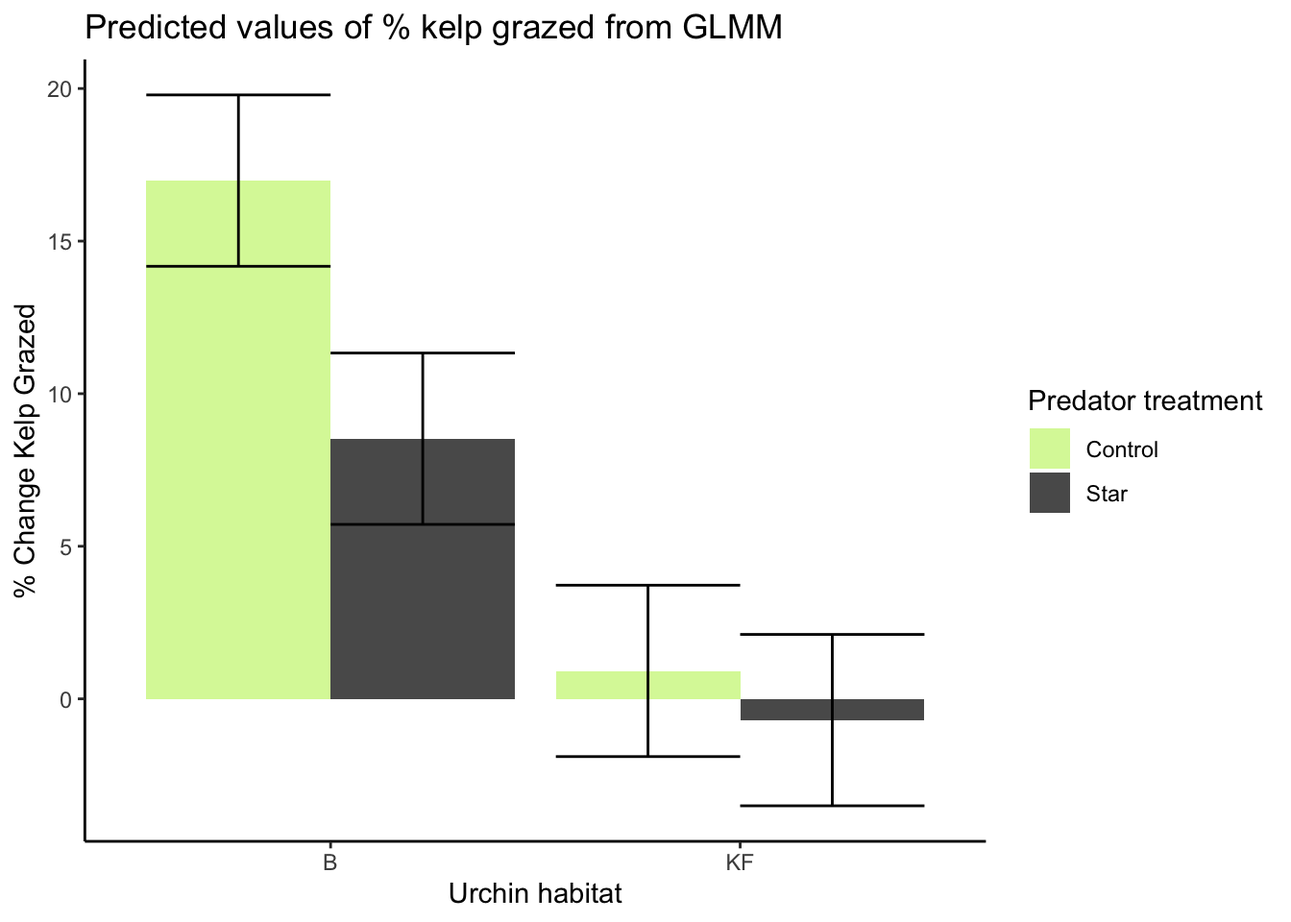
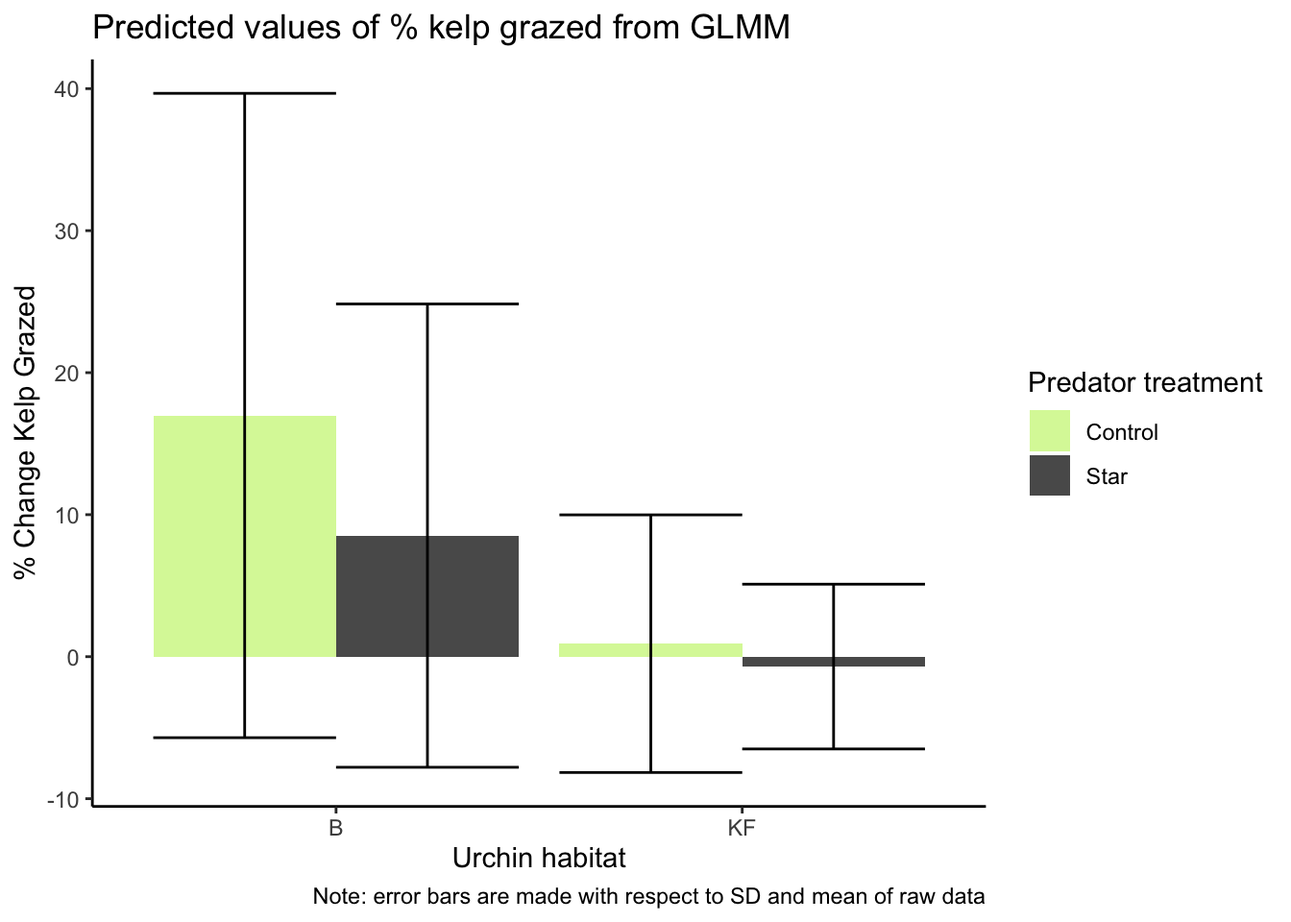
render

diff --git a/docs/PycnoPie_report.html b/docs/PycnoPie_report.html
@@ -6,7 +6,7 @@
 
 <meta name="viewport" content="width=device-width, initial-scale=1.0, user-scalable=yes">
 
-<meta name="dcterms.date" content="2025-01-27">
+<meta name="dcterms.date" content="2025-02-04">
 
 <title>PycnoPie</title>
 <style>
@@ -91,7 +91,7 @@ pre > code.sourceCode > span > a:first-child::before { text-decoration: underlin
     <div>
     <div class="quarto-title-meta-heading">Published</div>
     <div class="quarto-title-meta-contents">
-      <p class="date">January 27, 2025</p>
+      <p class="date">February 4, 2025</p>
     </div>
   </div>
   
@@ -117,12 +117,43 @@ pre > code.sourceCode > span > a:first-child::before { text-decoration: underlin
 <span id="cb1-5"><a href="#cb1-5" aria-hidden="true" tabindex="-1"></a>  <span class="fu">scale_fill_manual</span>(<span class="at">values =</span> <span class="fu">c</span>(<span class="st">'#5A5A5A'</span>,<span class="st">'#DAF7A6'</span>) ) <span class="sc">+</span></span>
 <span id="cb1-6"><a href="#cb1-6" aria-hidden="true" tabindex="-1"></a>  <span class="fu">ylab</span>(<span class="st">"% Change Kelp Grazed"</span>) <span class="sc">+</span></span>
 <span id="cb1-7"><a href="#cb1-7" aria-hidden="true" tabindex="-1"></a>  <span class="fu">xlab</span>(<span class="st">"Urchin habitat "</span>) <span class="sc">+</span></span>
-<span id="cb1-8"><a href="#cb1-8" aria-hidden="true" tabindex="-1"></a>  <span class="fu">labs</span>(<span class="at">fill =</span> <span class="st">"Predator treatment"</span>)</span></code><button title="Copy to Clipboard" class="code-copy-button"><i class="bi"></i></button></pre></div>
+<span id="cb1-8"><a href="#cb1-8" aria-hidden="true" tabindex="-1"></a>  <span class="fu">labs</span>(<span class="at">fill =</span> <span class="st">"Predator treatment"</span>)</span>
+<span id="cb1-9"><a href="#cb1-9" aria-hidden="true" tabindex="-1"></a><span class="co">#calculating SD by group for raw data for error bars</span></span>
+<span id="cb1-10"><a href="#cb1-10" aria-hidden="true" tabindex="-1"></a>kelp_processed_sd <span class="ot">&lt;-</span> kelp_processed <span class="sc">%&gt;%</span></span>
+<span id="cb1-11"><a href="#cb1-11" aria-hidden="true" tabindex="-1"></a>  <span class="fu">group_by</span>(Urch_habitat_treatment, Pred_treatment) <span class="sc">%&gt;%</span></span>
+<span id="cb1-12"><a href="#cb1-12" aria-hidden="true" tabindex="-1"></a>  <span class="fu">mutate</span>(<span class="at">raw_sd =</span> <span class="fu">sd</span>(pcnt_grazed),</span>
+<span id="cb1-13"><a href="#cb1-13" aria-hidden="true" tabindex="-1"></a>         <span class="at">raw_mean =</span> <span class="fu">mean</span>(pcnt_grazed)) <span class="sc">%&gt;%</span></span>
+<span id="cb1-14"><a href="#cb1-14" aria-hidden="true" tabindex="-1"></a>  <span class="fu">ungroup</span>() <span class="sc">%&gt;%</span></span>
+<span id="cb1-15"><a href="#cb1-15" aria-hidden="true" tabindex="-1"></a>  <span class="fu">mutate</span>(<span class="fu">across</span>(<span class="fu">c</span>(Urch_habitat_treatment, Pred_treatment), as.factor)) <span class="sc">%&gt;%</span></span>
+<span id="cb1-16"><a href="#cb1-16" aria-hidden="true" tabindex="-1"></a>  <span class="fu">unique</span>()</span>
+<span id="cb1-17"><a href="#cb1-17" aria-hidden="true" tabindex="-1"></a></span>
+<span id="cb1-18"><a href="#cb1-18" aria-hidden="true" tabindex="-1"></a><span class="co">#bar chart (made this bc it is same as model code but for raw data - wanted to see if plots look different or not)</span></span>
+<span id="cb1-19"><a href="#cb1-19" aria-hidden="true" tabindex="-1"></a><span class="fu">ggplot</span>(kelp_processed_sd, </span>
+<span id="cb1-20"><a href="#cb1-20" aria-hidden="true" tabindex="-1"></a>       <span class="fu">aes</span>(<span class="at">x =</span> Urch_habitat_treatment, <span class="at">y =</span> raw_mean, <span class="at">fill =</span> Pred_treatment)) <span class="sc">+</span> <span class="co">#used raw_mean bc pre-calculated and looks like model graph.</span></span>
+<span id="cb1-21"><a href="#cb1-21" aria-hidden="true" tabindex="-1"></a>  </span>
+<span id="cb1-22"><a href="#cb1-22" aria-hidden="true" tabindex="-1"></a>  <span class="fu">geom_bar</span>(<span class="at">stat =</span> <span class="st">"identity"</span>, </span>
+<span id="cb1-23"><a href="#cb1-23" aria-hidden="true" tabindex="-1"></a>           <span class="at">position =</span> <span class="fu">position_dodge</span>()) <span class="sc">+</span></span>
+<span id="cb1-24"><a href="#cb1-24" aria-hidden="true" tabindex="-1"></a>  </span>
+<span id="cb1-25"><a href="#cb1-25" aria-hidden="true" tabindex="-1"></a>  <span class="fu">geom_errorbar</span>(<span class="at">data =</span> kelp_processed_sd,</span>
+<span id="cb1-26"><a href="#cb1-26" aria-hidden="true" tabindex="-1"></a>    <span class="fu">aes</span>(<span class="at">ymin =</span> raw_mean<span class="sc">-</span>raw_sd, <span class="at">ymax =</span>raw_mean<span class="sc">+</span>raw_sd), </span>
+<span id="cb1-27"><a href="#cb1-27" aria-hidden="true" tabindex="-1"></a>                <span class="at">position=</span><span class="fu">position_dodge</span>()) <span class="sc">+</span></span>
+<span id="cb1-28"><a href="#cb1-28" aria-hidden="true" tabindex="-1"></a> </span>
+<span id="cb1-29"><a href="#cb1-29" aria-hidden="true" tabindex="-1"></a>   <span class="fu">labs</span>(<span class="at">title =</span> <span class="st">"Predicted values of % kelp grazed from raw data"</span>, </span>
+<span id="cb1-30"><a href="#cb1-30" aria-hidden="true" tabindex="-1"></a>        <span class="at">x =</span> <span class="st">"Urchin habitat"</span>, <span class="at">y =</span> <span class="st">"% kelp grazed"</span>, </span>
+<span id="cb1-31"><a href="#cb1-31" aria-hidden="true" tabindex="-1"></a>        <span class="at">fill =</span> <span class="st">"Pred treatment"</span>) <span class="sc">+</span></span>
+<span id="cb1-32"><a href="#cb1-32" aria-hidden="true" tabindex="-1"></a> </span>
+<span id="cb1-33"><a href="#cb1-33" aria-hidden="true" tabindex="-1"></a>  <span class="fu">theme_classic</span>() <span class="sc">+</span></span>
+<span id="cb1-34"><a href="#cb1-34" aria-hidden="true" tabindex="-1"></a>  <span class="fu">scale_fill_manual</span>(<span class="at">values =</span> <span class="fu">c</span>(<span class="st">'#DAF7A6'</span>,<span class="st">'#5A5A5A'</span>) ) <span class="sc">+</span></span>
+<span id="cb1-35"><a href="#cb1-35" aria-hidden="true" tabindex="-1"></a>  <span class="fu">ylab</span>(<span class="st">"% Change Kelp Grazed"</span>) <span class="sc">+</span></span>
+<span id="cb1-36"><a href="#cb1-36" aria-hidden="true" tabindex="-1"></a>  <span class="fu">labs</span>(<span class="at">fill =</span> <span class="st">"Predator treatment"</span>)</span></code><button title="Copy to Clipboard" class="code-copy-button"><i class="bi"></i></button></pre></div>
 </details>
 <div class="cell quarto-layout-panel" data-layout-ncol="2">
 <div class="quarto-layout-row">
 <div class="quarto-layout-cell" style="flex-basis: 50.0%;justify-content: center;">
 <p><img src="PycnoPie_report_files/figure-html/raw-kelp-1.png" class="img-fluid" width="672"></p>
+</div>
+<div class="quarto-layout-cell" style="flex-basis: 50.0%;justify-content: center;">
+<p><img src="PycnoPie_report_files/figure-html/raw-kelp-2.png" class="img-fluid" width="672"></p>
 </div>
 </div>
 </div>
@@ -131,42 +162,79 @@ pre > code.sourceCode > span > a:first-child::before { text-decoration: underlin
 <h4 class="anchored" data-anchor-id="model-data-general-linear-mixed-model-for-change-in-kelp-grazed-by-urchins"><strong>Model data:</strong> General linear mixed model for % change in kelp grazed by urchins</h4>
 <details class="code-fold">
 <summary>Code</summary>
-<div class="sourceCode cell-code" id="cb2"><pre class="sourceCode r code-with-copy"><code class="sourceCode r"><span id="cb2-1"><a href="#cb2-1" aria-hidden="true" tabindex="-1"></a><span class="co">#building model</span></span>
-<span id="cb2-2"><a href="#cb2-2" aria-hidden="true" tabindex="-1"></a>kelp_mod <span class="ot">&lt;-</span> glmmTMB<span class="sc">::</span><span class="fu">glmmTMB</span>(pcnt_grazed <span class="sc">~</span> </span>
-<span id="cb2-3"><a href="#cb2-3" aria-hidden="true" tabindex="-1"></a>                         </span>
-<span id="cb2-4"><a href="#cb2-4" aria-hidden="true" tabindex="-1"></a>                         Urch_habitat_treatment <span class="sc">+</span> </span>
-<span id="cb2-5"><a href="#cb2-5" aria-hidden="true" tabindex="-1"></a>                         Pred_treatment <span class="sc">+</span> </span>
-<span id="cb2-6"><a href="#cb2-6" aria-hidden="true" tabindex="-1"></a>                         Urch_habitat_treatment<span class="sc">*</span>Pred_treatment <span class="sc">+</span></span>
+<div class="sourceCode cell-code" id="cb2"><pre class="sourceCode r code-with-copy"><code class="sourceCode r"><span id="cb2-1"><a href="#cb2-1" aria-hidden="true" tabindex="-1"></a><span class="co">#converting to factor</span></span>
+<span id="cb2-2"><a href="#cb2-2" aria-hidden="true" tabindex="-1"></a>kelp_processed <span class="ot">&lt;-</span> kelp_processed <span class="sc">%&gt;%</span> </span>
+<span id="cb2-3"><a href="#cb2-3" aria-hidden="true" tabindex="-1"></a>  <span class="fu">mutate</span>(<span class="fu">across</span>(<span class="fu">c</span>(Pred_treatment, Urch_habitat_treatment), as.factor))</span>
+<span id="cb2-4"><a href="#cb2-4" aria-hidden="true" tabindex="-1"></a></span>
+<span id="cb2-5"><a href="#cb2-5" aria-hidden="true" tabindex="-1"></a><span class="co">#building model</span></span>
+<span id="cb2-6"><a href="#cb2-6" aria-hidden="true" tabindex="-1"></a>kelp_mod <span class="ot">&lt;-</span> glmmTMB<span class="sc">::</span><span class="fu">glmmTMB</span>(pcnt_grazed <span class="sc">~</span> </span>
 <span id="cb2-7"><a href="#cb2-7" aria-hidden="true" tabindex="-1"></a>                         </span>
-<span id="cb2-8"><a href="#cb2-8" aria-hidden="true" tabindex="-1"></a>                         (<span class="dv">1</span><span class="sc">|</span> Trial<span class="sc">/</span>Tank<span class="sc">/</span>Kelp_ID),  </span>
-<span id="cb2-9"><a href="#cb2-9" aria-hidden="true" tabindex="-1"></a>                       </span>
-<span id="cb2-10"><a href="#cb2-10" aria-hidden="true" tabindex="-1"></a>                       <span class="at">data =</span> kelp_processed,</span>
-<span id="cb2-11"><a href="#cb2-11" aria-hidden="true" tabindex="-1"></a>                       </span>
-<span id="cb2-12"><a href="#cb2-12" aria-hidden="true" tabindex="-1"></a>                       <span class="at">family =</span> <span class="fu">gaussian</span>(<span class="at">link =</span> <span class="st">"identity"</span>))</span>
-<span id="cb2-13"><a href="#cb2-13" aria-hidden="true" tabindex="-1"></a></span>
-<span id="cb2-14"><a href="#cb2-14" aria-hidden="true" tabindex="-1"></a>sjPlot<span class="sc">::</span><span class="fu">tab_model</span>(kelp_mod)</span>
-<span id="cb2-15"><a href="#cb2-15" aria-hidden="true" tabindex="-1"></a>predicted_kelp_mod <span class="ot">&lt;-</span> <span class="fu">ggpredict</span>(<span class="at">model =</span> kelp_mod, <span class="at">terms =</span> <span class="fu">c</span>(<span class="st">"Pred_treatment"</span>,<span class="st">"Urch_habitat_treatment"</span>))</span>
-<span id="cb2-16"><a href="#cb2-16" aria-hidden="true" tabindex="-1"></a></span>
-<span id="cb2-17"><a href="#cb2-17" aria-hidden="true" tabindex="-1"></a><span class="co">#bar chart of estimates</span></span>
-<span id="cb2-18"><a href="#cb2-18" aria-hidden="true" tabindex="-1"></a><span class="fu">ggplot</span>(predicted_kelp_mod, <span class="fu">aes</span>(group, predicted, <span class="at">fill =</span> x)) <span class="sc">+</span></span>
-<span id="cb2-19"><a href="#cb2-19" aria-hidden="true" tabindex="-1"></a>  <span class="fu">geom_bar</span>(<span class="at">stat =</span> <span class="st">"identity"</span>, <span class="at">position =</span> <span class="fu">position_dodge</span>()) <span class="sc">+</span></span>
-<span id="cb2-20"><a href="#cb2-20" aria-hidden="true" tabindex="-1"></a>  <span class="fu">geom_errorbar</span>(<span class="fu">aes</span>(<span class="at">ymin =</span> conf.low, <span class="at">ymax =</span> conf.high), <span class="at">position=</span><span class="fu">position_dodge</span>()) <span class="sc">+</span></span>
-<span id="cb2-21"><a href="#cb2-21" aria-hidden="true" tabindex="-1"></a>  <span class="fu">labs</span>(<span class="at">title =</span> <span class="st">"Predicted values of % kelp grazed from GLMM"</span>, <span class="at">x =</span> <span class="st">"Urchin habitat"</span>, <span class="at">y =</span> <span class="st">"% kelp grazed"</span>, <span class="at">fill =</span> <span class="st">"Pred treatment"</span>) <span class="sc">+</span></span>
-<span id="cb2-22"><a href="#cb2-22" aria-hidden="true" tabindex="-1"></a>  <span class="fu">theme_classic</span>() <span class="sc">+</span></span>
-<span id="cb2-23"><a href="#cb2-23" aria-hidden="true" tabindex="-1"></a>  <span class="fu">scale_fill_manual</span>(<span class="at">values =</span> <span class="fu">c</span>(<span class="st">'#DAF7A6'</span>,<span class="st">'#5A5A5A'</span>) ) <span class="sc">+</span></span>
-<span id="cb2-24"><a href="#cb2-24" aria-hidden="true" tabindex="-1"></a>  <span class="fu">ylab</span>(<span class="st">"% Change Kelp Grazed"</span>) <span class="sc">+</span></span>
-<span id="cb2-25"><a href="#cb2-25" aria-hidden="true" tabindex="-1"></a>  <span class="fu">labs</span>(<span class="at">fill =</span> <span class="st">"Predator treatment"</span>)</span>
-<span id="cb2-26"><a href="#cb2-26" aria-hidden="true" tabindex="-1"></a><span class="co">#boxplot of estimates</span></span>
-<span id="cb2-27"><a href="#cb2-27" aria-hidden="true" tabindex="-1"></a><span class="fu">ggplot</span>() <span class="sc">+</span></span>
-<span id="cb2-28"><a href="#cb2-28" aria-hidden="true" tabindex="-1"></a>    <span class="fu">geom_point</span>(<span class="at">data =</span> predicted_kelp_mod, <span class="fu">aes</span>(<span class="at">x =</span> group, <span class="at">y =</span> predicted, <span class="at">color =</span> x), <span class="at">position =</span> <span class="fu">position_dodge</span>(<span class="fl">0.5</span>)) <span class="sc">+</span></span>
-<span id="cb2-29"><a href="#cb2-29" aria-hidden="true" tabindex="-1"></a>  <span class="fu">geom_errorbar</span>(<span class="at">data =</span> predicted_kelp_mod, <span class="fu">aes</span>(<span class="at">x =</span> group, <span class="at">ymin =</span> conf.low, <span class="at">ymax =</span> conf.high, <span class="at">color =</span> x), <span class="at">position =</span> <span class="fu">position_dodge</span>(<span class="fl">0.5</span>), <span class="at">width =</span> .<span class="dv">1</span>) <span class="sc">+</span></span>
-<span id="cb2-30"><a href="#cb2-30" aria-hidden="true" tabindex="-1"></a>  </span>
-<span id="cb2-31"><a href="#cb2-31" aria-hidden="true" tabindex="-1"></a>  <span class="fu">geom_point</span>(<span class="at">data =</span> kelp_processed, <span class="fu">aes</span>(<span class="at">x =</span> Urch_habitat_treatment, <span class="at">y =</span> pcnt_grazed, <span class="at">color =</span> Pred_treatment), <span class="at">position =</span> <span class="fu">position_dodge</span>(<span class="fl">0.5</span>), <span class="at">alpha =</span> <span class="fl">0.1</span>) <span class="sc">+</span></span>
-<span id="cb2-32"><a href="#cb2-32" aria-hidden="true" tabindex="-1"></a>  </span>
-<span id="cb2-33"><a href="#cb2-33" aria-hidden="true" tabindex="-1"></a>  <span class="fu">labs</span>(<span class="at">title =</span> <span class="st">"Predicted values of % kelp grazed from GLMM overlayed with raw data"</span>, <span class="at">x =</span> <span class="st">"Urchin habitat"</span>, <span class="at">y =</span> <span class="st">"% kelp grazed"</span>, <span class="at">fill =</span> <span class="st">"Pred treatment"</span>) <span class="sc">+</span></span>
-<span id="cb2-34"><a href="#cb2-34" aria-hidden="true" tabindex="-1"></a>  <span class="fu">theme_classic</span>() <span class="sc">+</span></span>
-<span id="cb2-35"><a href="#cb2-35" aria-hidden="true" tabindex="-1"></a>  <span class="fu">ylab</span>(<span class="st">"% Change Kelp Grazed"</span>) <span class="sc">+</span></span>
-<span id="cb2-36"><a href="#cb2-36" aria-hidden="true" tabindex="-1"></a>  <span class="fu">labs</span>(<span class="at">fill =</span> <span class="st">"Predator treatment"</span>)</span></code><button title="Copy to Clipboard" class="code-copy-button"><i class="bi"></i></button></pre></div>
+<span id="cb2-8"><a href="#cb2-8" aria-hidden="true" tabindex="-1"></a>                         Urch_habitat_treatment <span class="sc">+</span> </span>
+<span id="cb2-9"><a href="#cb2-9" aria-hidden="true" tabindex="-1"></a>                         Pred_treatment <span class="sc">+</span> </span>
+<span id="cb2-10"><a href="#cb2-10" aria-hidden="true" tabindex="-1"></a>                         Urch_habitat_treatment<span class="sc">*</span>Pred_treatment <span class="sc">+</span></span>
+<span id="cb2-11"><a href="#cb2-11" aria-hidden="true" tabindex="-1"></a>                         </span>
+<span id="cb2-12"><a href="#cb2-12" aria-hidden="true" tabindex="-1"></a>                         (<span class="dv">1</span><span class="sc">|</span> Trial<span class="sc">/</span>Tank<span class="sc">/</span>Kelp_ID),  </span>
+<span id="cb2-13"><a href="#cb2-13" aria-hidden="true" tabindex="-1"></a>                       </span>
+<span id="cb2-14"><a href="#cb2-14" aria-hidden="true" tabindex="-1"></a>                       <span class="at">data =</span> kelp_processed,</span>
+<span id="cb2-15"><a href="#cb2-15" aria-hidden="true" tabindex="-1"></a>                       </span>
+<span id="cb2-16"><a href="#cb2-16" aria-hidden="true" tabindex="-1"></a>                       <span class="at">family =</span> <span class="fu">gaussian</span>(<span class="at">link =</span> <span class="st">"identity"</span>))</span>
+<span id="cb2-17"><a href="#cb2-17" aria-hidden="true" tabindex="-1"></a></span>
+<span id="cb2-18"><a href="#cb2-18" aria-hidden="true" tabindex="-1"></a>sjPlot<span class="sc">::</span><span class="fu">tab_model</span>(kelp_mod)</span>
+<span id="cb2-19"><a href="#cb2-19" aria-hidden="true" tabindex="-1"></a>predicted_kelp_mod <span class="ot">&lt;-</span> <span class="fu">ggpredict</span>(<span class="at">model =</span> kelp_mod, </span>
+<span id="cb2-20"><a href="#cb2-20" aria-hidden="true" tabindex="-1"></a>                                <span class="at">terms =</span> <span class="fu">c</span>(<span class="st">"Pred_treatment"</span>, </span>
+<span id="cb2-21"><a href="#cb2-21" aria-hidden="true" tabindex="-1"></a>                                          <span class="st">"Urch_habitat_treatment"</span>)) <span class="sc">%&gt;%</span> </span>
+<span id="cb2-22"><a href="#cb2-22" aria-hidden="true" tabindex="-1"></a>  <span class="fu">rename</span>(<span class="at">Pred_treatment =</span> x,</span>
+<span id="cb2-23"><a href="#cb2-23" aria-hidden="true" tabindex="-1"></a>         <span class="at">Urch_habitat_treatment =</span> group) </span>
+<span id="cb2-24"><a href="#cb2-24" aria-hidden="true" tabindex="-1"></a>  </span>
+<span id="cb2-25"><a href="#cb2-25" aria-hidden="true" tabindex="-1"></a></span>
+<span id="cb2-26"><a href="#cb2-26" aria-hidden="true" tabindex="-1"></a><span class="co">#merging model estimates w sd from raw data for error bars</span></span>
+<span id="cb2-27"><a href="#cb2-27" aria-hidden="true" tabindex="-1"></a></span>
+<span id="cb2-28"><a href="#cb2-28" aria-hidden="true" tabindex="-1"></a>kelp_mod_withsd <span class="ot">&lt;-</span> kelp_processed_sd <span class="sc">%&gt;%</span></span>
+<span id="cb2-29"><a href="#cb2-29" aria-hidden="true" tabindex="-1"></a>  <span class="fu">distinct</span>(Pred_treatment, Urch_habitat_treatment, raw_sd, raw_mean) <span class="sc">%&gt;%</span></span>
+<span id="cb2-30"><a href="#cb2-30" aria-hidden="true" tabindex="-1"></a>  <span class="fu">merge</span>(predicted_kelp_mod)</span>
+<span id="cb2-31"><a href="#cb2-31" aria-hidden="true" tabindex="-1"></a>  </span>
+<span id="cb2-32"><a href="#cb2-32" aria-hidden="true" tabindex="-1"></a><span class="do">################</span></span>
+<span id="cb2-33"><a href="#cb2-33" aria-hidden="true" tabindex="-1"></a><span class="co">#    PLOTS.   #</span></span>
+<span id="cb2-34"><a href="#cb2-34" aria-hidden="true" tabindex="-1"></a><span class="do">################</span></span>
+<span id="cb2-35"><a href="#cb2-35" aria-hidden="true" tabindex="-1"></a></span>
+<span id="cb2-36"><a href="#cb2-36" aria-hidden="true" tabindex="-1"></a><span class="co">#bar chart of model estimates with error bars from raw data's standard error</span></span>
+<span id="cb2-37"><a href="#cb2-37" aria-hidden="true" tabindex="-1"></a><span class="fu">ggplot</span>(kelp_mod_withsd, </span>
+<span id="cb2-38"><a href="#cb2-38" aria-hidden="true" tabindex="-1"></a>       <span class="fu">aes</span>(<span class="at">x =</span> Urch_habitat_treatment, <span class="at">y =</span> predicted, <span class="at">fill =</span> Pred_treatment)) <span class="sc">+</span></span>
+<span id="cb2-39"><a href="#cb2-39" aria-hidden="true" tabindex="-1"></a>  </span>
+<span id="cb2-40"><a href="#cb2-40" aria-hidden="true" tabindex="-1"></a>  <span class="fu">geom_bar</span>(<span class="at">stat =</span> <span class="st">"identity"</span>, </span>
+<span id="cb2-41"><a href="#cb2-41" aria-hidden="true" tabindex="-1"></a>           <span class="at">position =</span> <span class="fu">position_dodge</span>()) <span class="sc">+</span></span>
+<span id="cb2-42"><a href="#cb2-42" aria-hidden="true" tabindex="-1"></a>  </span>
+<span id="cb2-43"><a href="#cb2-43" aria-hidden="true" tabindex="-1"></a>  <span class="fu">geom_errorbar</span>(<span class="at">data =</span> kelp_mod_withsd,</span>
+<span id="cb2-44"><a href="#cb2-44" aria-hidden="true" tabindex="-1"></a>    <span class="fu">aes</span>(<span class="at">ymin =</span> raw_mean<span class="sc">-</span>raw_sd, <span class="at">ymax =</span>raw_mean<span class="sc">+</span>raw_sd), </span>
+<span id="cb2-45"><a href="#cb2-45" aria-hidden="true" tabindex="-1"></a>                <span class="at">position=</span><span class="fu">position_dodge</span>()) <span class="sc">+</span></span>
+<span id="cb2-46"><a href="#cb2-46" aria-hidden="true" tabindex="-1"></a> </span>
+<span id="cb2-47"><a href="#cb2-47" aria-hidden="true" tabindex="-1"></a>   <span class="fu">labs</span>(<span class="at">title =</span> <span class="st">"Predicted values of % kelp grazed from GLMM"</span>, </span>
+<span id="cb2-48"><a href="#cb2-48" aria-hidden="true" tabindex="-1"></a>        <span class="at">x =</span> <span class="st">"Urchin habitat"</span>, <span class="at">y =</span> <span class="st">"% kelp grazed"</span>, </span>
+<span id="cb2-49"><a href="#cb2-49" aria-hidden="true" tabindex="-1"></a>        <span class="at">fill =</span> <span class="st">"Pred treatment"</span>,</span>
+<span id="cb2-50"><a href="#cb2-50" aria-hidden="true" tabindex="-1"></a>        <span class="at">caption =</span> <span class="st">"Note: error bars are made with respect to SD and mean of raw data"</span>) <span class="sc">+</span></span>
+<span id="cb2-51"><a href="#cb2-51" aria-hidden="true" tabindex="-1"></a> </span>
+<span id="cb2-52"><a href="#cb2-52" aria-hidden="true" tabindex="-1"></a>  <span class="fu">theme_classic</span>() <span class="sc">+</span></span>
+<span id="cb2-53"><a href="#cb2-53" aria-hidden="true" tabindex="-1"></a>  <span class="fu">scale_fill_manual</span>(<span class="at">values =</span> <span class="fu">c</span>(<span class="st">'#DAF7A6'</span>,<span class="st">'#5A5A5A'</span>) ) <span class="sc">+</span></span>
+<span id="cb2-54"><a href="#cb2-54" aria-hidden="true" tabindex="-1"></a>  <span class="fu">ylab</span>(<span class="st">"% Change Kelp Grazed"</span>) <span class="sc">+</span></span>
+<span id="cb2-55"><a href="#cb2-55" aria-hidden="true" tabindex="-1"></a>  <span class="fu">labs</span>(<span class="at">fill =</span> <span class="st">"Predator treatment"</span>)</span>
+<span id="cb2-56"><a href="#cb2-56" aria-hidden="true" tabindex="-1"></a><span class="co">#overlay of mean model estimate with raw data - defeats purpose of visualizing model estimate</span></span>
+<span id="cb2-57"><a href="#cb2-57" aria-hidden="true" tabindex="-1"></a><span class="fu">ggplot</span>() <span class="sc">+</span></span>
+<span id="cb2-58"><a href="#cb2-58" aria-hidden="true" tabindex="-1"></a>  </span>
+<span id="cb2-59"><a href="#cb2-59" aria-hidden="true" tabindex="-1"></a>  <span class="co">#model plot (mean GLMM value)</span></span>
+<span id="cb2-60"><a href="#cb2-60" aria-hidden="true" tabindex="-1"></a>    <span class="fu">geom_point</span>(<span class="at">data =</span> predicted_kelp_mod, </span>
+<span id="cb2-61"><a href="#cb2-61" aria-hidden="true" tabindex="-1"></a>               <span class="fu">aes</span>(<span class="at">x =</span> Urch_habitat_treatment, <span class="at">y =</span> predicted, <span class="at">color =</span> Pred_treatment), </span>
+<span id="cb2-62"><a href="#cb2-62" aria-hidden="true" tabindex="-1"></a>               <span class="at">position =</span> <span class="fu">position_dodge</span>(<span class="fl">0.5</span>)) <span class="sc">+</span></span>
+<span id="cb2-63"><a href="#cb2-63" aria-hidden="true" tabindex="-1"></a>  </span>
+<span id="cb2-64"><a href="#cb2-64" aria-hidden="true" tabindex="-1"></a>  <span class="co">#overlayed raw data</span></span>
+<span id="cb2-65"><a href="#cb2-65" aria-hidden="true" tabindex="-1"></a>  <span class="fu">geom_point</span>(<span class="at">data =</span> kelp_processed, </span>
+<span id="cb2-66"><a href="#cb2-66" aria-hidden="true" tabindex="-1"></a>             <span class="fu">aes</span>(<span class="at">x =</span> Urch_habitat_treatment, <span class="at">y =</span> pcnt_grazed, <span class="at">color =</span> Pred_treatment), </span>
+<span id="cb2-67"><a href="#cb2-67" aria-hidden="true" tabindex="-1"></a>             <span class="at">position =</span> <span class="fu">position_dodge</span>(<span class="fl">0.5</span>), </span>
+<span id="cb2-68"><a href="#cb2-68" aria-hidden="true" tabindex="-1"></a>             <span class="at">alpha =</span> <span class="fl">0.1</span>) <span class="sc">+</span></span>
+<span id="cb2-69"><a href="#cb2-69" aria-hidden="true" tabindex="-1"></a>  </span>
+<span id="cb2-70"><a href="#cb2-70" aria-hidden="true" tabindex="-1"></a>  <span class="fu">labs</span>(<span class="at">title =</span> <span class="st">"Predicted values of % kelp grazed from GLMM overlayed with raw data"</span>, <span class="at">x =</span> <span class="st">"Urchin habitat"</span>, <span class="at">y =</span> <span class="st">"% kelp grazed"</span>, <span class="at">fill =</span> <span class="st">"Pred treatment"</span>) <span class="sc">+</span></span>
+<span id="cb2-71"><a href="#cb2-71" aria-hidden="true" tabindex="-1"></a>  <span class="fu">theme_classic</span>() <span class="sc">+</span></span>
+<span id="cb2-72"><a href="#cb2-72" aria-hidden="true" tabindex="-1"></a>  <span class="fu">ylab</span>(<span class="st">"% Change Kelp Grazed"</span>) <span class="sc">+</span></span>
+<span id="cb2-73"><a href="#cb2-73" aria-hidden="true" tabindex="-1"></a>  <span class="fu">labs</span>(<span class="at">fill =</span> <span class="st">"Predator treatment"</span>)</span></code><button title="Copy to Clipboard" class="code-copy-button"><i class="bi"></i></button></pre></div>
 </details>
 <div class="cell quarto-layout-panel" data-layout-ncol="2">
 <div class="quarto-layout-row">
@@ -284,7 +352,7 @@ pre > code.sourceCode > span > a:first-child::before { text-decoration: underlin
 <span id="cb3-7"><a href="#cb3-7" aria-hidden="true" tabindex="-1"></a>           <span class="at">fill =</span> Pred_treatment)) <span class="sc">+</span></span>
 <span id="cb3-8"><a href="#cb3-8" aria-hidden="true" tabindex="-1"></a>  </span>
 <span id="cb3-9"><a href="#cb3-9" aria-hidden="true" tabindex="-1"></a>  <span class="fu">geom_bar</span>(<span class="at">stat =</span> <span class="st">"identity"</span>, <span class="at">position =</span> <span class="fu">position_dodge</span>()) <span class="sc">+</span></span>
-<span id="cb3-10"><a href="#cb3-10" aria-hidden="true" tabindex="-1"></a></span>
+<span id="cb3-10"><a href="#cb3-10" aria-hidden="true" tabindex="-1"></a>  </span>
 <span id="cb3-11"><a href="#cb3-11" aria-hidden="true" tabindex="-1"></a>  <span class="fu">labs</span>(<span class="at">title =</span> <span class="st">"Trial avg variance-to-mean ratio of urchin slice counts"</span>,</span>
 <span id="cb3-12"><a href="#cb3-12" aria-hidden="true" tabindex="-1"></a>       <span class="at">x =</span> <span class="st">"Treatment"</span>,</span>
 <span id="cb3-13"><a href="#cb3-13" aria-hidden="true" tabindex="-1"></a>       <span class="at">y =</span> <span class="st">"Trial avg variance-to-mean ratio of urchin counts"</span>) <span class="sc">+</span></span>
